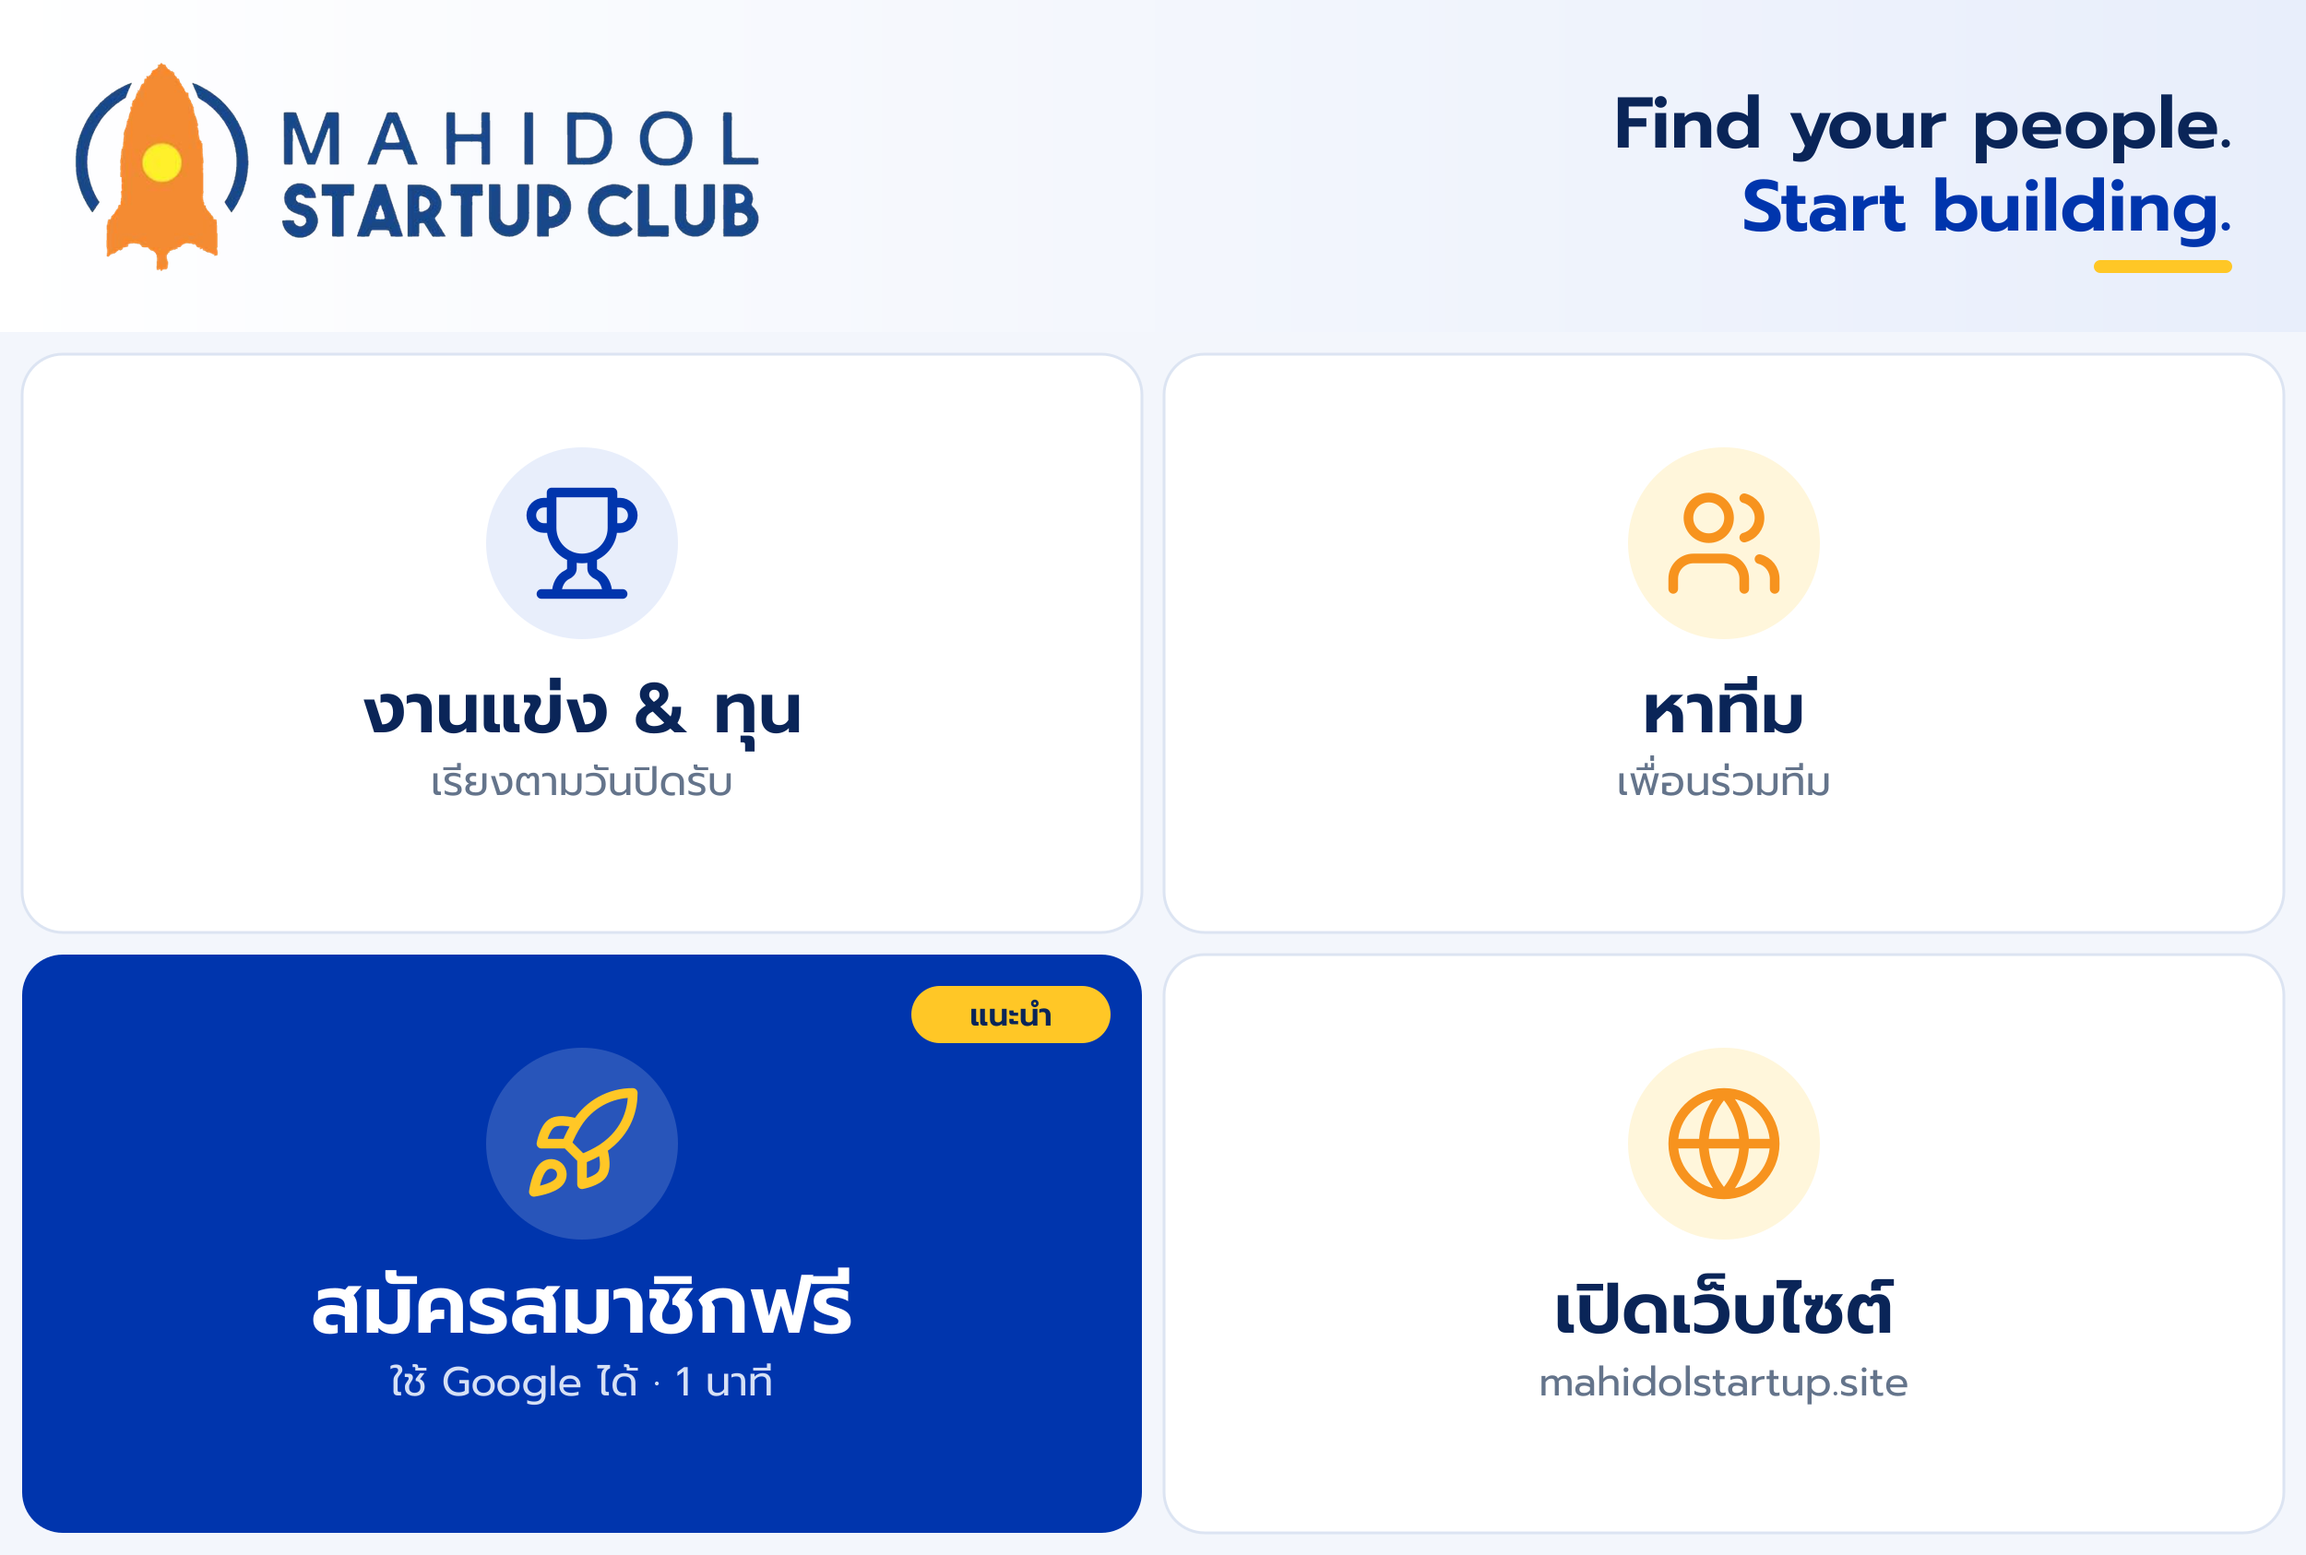
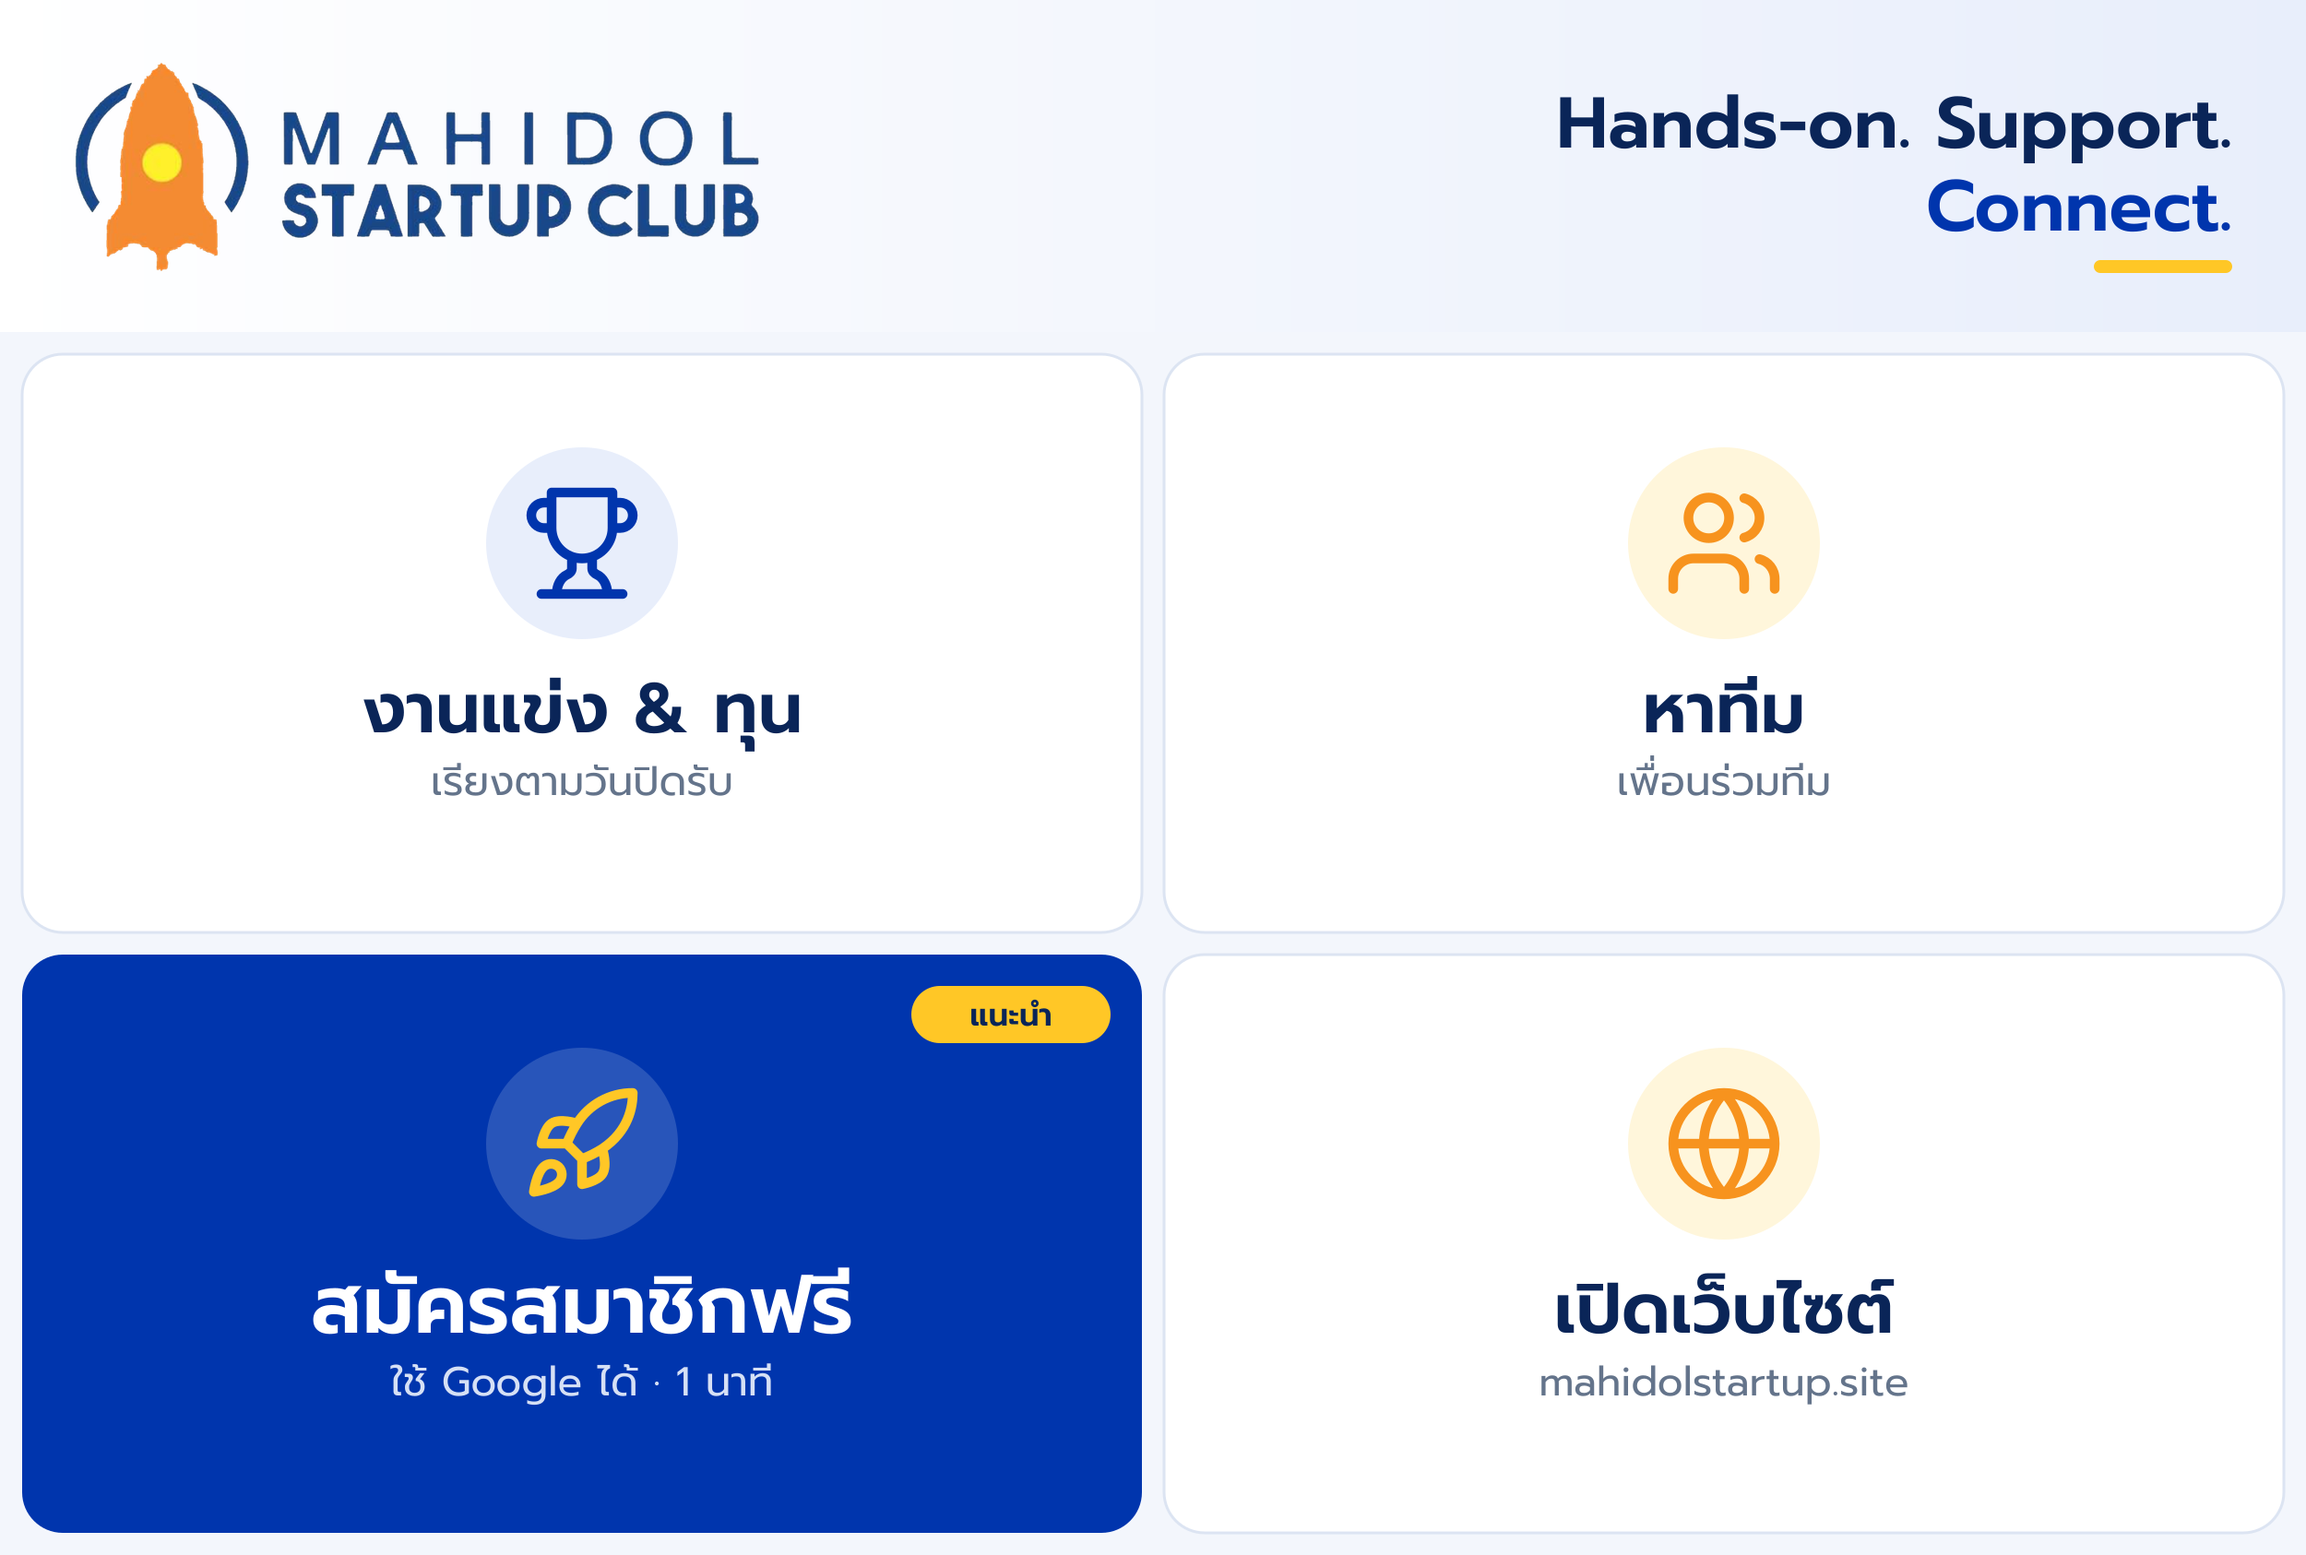
Use the club mantra 'Hands-on. Support. Connect.' on the site and in LINE artwork

Changed region(s): [[0.6552, 0.0617, 0.9672, 0.1542]]

diff --git a/src/app/layout.tsx b/src/app/layout.tsx
@@ -9,7 +9,7 @@ const plex = IBM_Plex_Sans_Thai({ subsets: ['thai', 'latin'], weight: ['400', '5
 
 export const metadata: Metadata = {
   metadataBase: new URL(process.env.NEXT_PUBLIC_SITE_URL || 'http://localhost:3000'),
-  title: { default: 'Mahidol Startup Club — Find your people. Start building.', template: '%s · Mahidol Startup Club' },
+  title: { default: 'Mahidol Startup Club — Hands-on. Support. Connect.', template: '%s · Mahidol Startup Club' },
   description: 'ชมรมสตาร์ตอัพมหาวิทยาลัยมหิดล หางานแข่ง ทุน ทีม และ co-founder ในที่เดียว พิมพ์สิ่งที่อยากทำ แล้วให้ AI พาไปเจอสิ่งที่ใช่',
   openGraph: { images: ['/assets/hero-connect.png'], locale: 'th_TH', type: 'website' },
   icons: { icon: '/assets/partners/msc.png' },

diff --git a/src/app/(site)/page.tsx b/src/app/(site)/page.tsx
@@ -49,9 +49,9 @@ export default async function HomePage() {
           <div style={{ flex: '1 1 520px', minWidth: 0, display: 'flex', flexDirection: 'column', gap: 24 }}>
             <span className="eyebrow">สนับสนุนโดย iNT มหาวิทยาลัยมหิดล</span>
             <h1>
-              Find your people.
+              Hands-on. Support.
               <br />
-              <span>Start building.</span>
+              <span>Connect.</span>
             </h1>
             <p style={{ margin: 0, maxWidth: 560, fontSize: 17, color: 'var(--muted)' }}>
               ชมรมสตาร์ตอัพมหาวิทยาลัยมหิดล สำหรับคนที่อยากลงมือทำจริง มีคนซัพพอร์ต และได้เจอเพื่อนร่วมทาง

diff --git a/src/app/login/page.tsx b/src/app/login/page.tsx
@@ -39,9 +39,9 @@ export default async function LoginPage({ searchParams }: PageProps<'/login'>) {
             style={{ width: '100%', maxWidth: 380, height: 'auto', alignSelf: 'center', filter: 'drop-shadow(0 20px 40px rgba(0,0,0,0.25))' }}
           />
           <h1>
-            Find your people.
+            Hands-on. Support.
             <br />
-            <span>Start building.</span>
+            <span>Connect.</span>
           </h1>
           <div className="bullets">
             {['หางานแข่ง ทุน และโครงการบ่มเพาะในที่เดียว', 'เจอทีมและ co-founder ที่สกิลเสริมกัน', 'แจ้งเตือนผ่าน LINE ทันทีเมื่อมีคนชวนเข้าทีม'].map((t) => (
